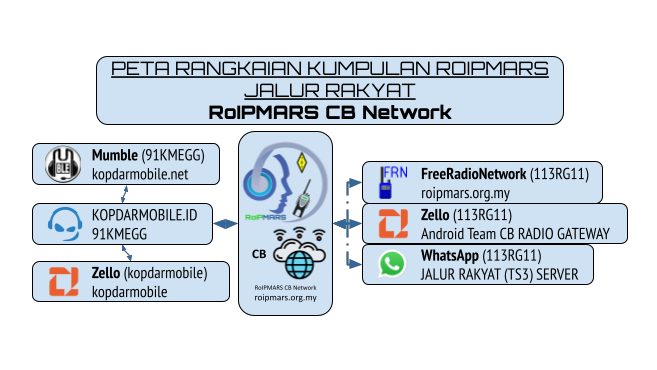
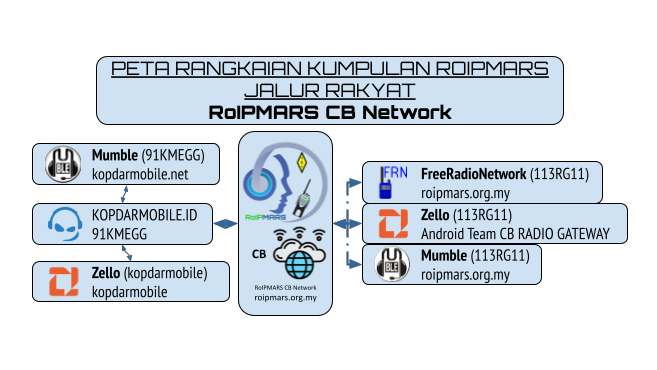
update network map & close net rep jun23

Changed region(s): [[0.5479, 0.6541, 0.9132, 0.773]]

diff --git a/program.php b/program.php
@@ -428,9 +428,9 @@
 						<tr><td>Ahad<br>25/06</td><td>2100MY</td><td>CB Net Hujung Minggu</td><td>113DAJCP</td><td>16</td></tr>
 						<tr><td>Isnin<br>26/06</td><td>2100MY</td><td>RoIPMARS Net Awal Minggu</td><td>9W2LGX</td><td>35</td></tr>
 						<tr class='bg-info-subtle'><td>Wednesday<br>28/06<sup>1</sup></td><td>2100MY</td><td>&#91;SPECIAL&#93; Learning English Net<br>&#40;Aidiladha Eve<sup>1</sup>&#41;</td><td>9W2LGX</td><td>32</td></tr>
-						<tr class='bg-primary-subtle'><td>Jumaat<br>30/06<sup>1</sup></td><td>2100MY</td><td>&#91;KHAS&#93; RoIPMARS Net Santai<br>&#40;Hari Raya Aidiladha<sup>1</sup>&#41;</td><td>9W6AZE</td><td>&shy;</td></tr>
+						<tr class='bg-primary-subtle'><td>Jumaat<br>30/06<sup>1</sup></td><td>2100MY</td><td>&#91;KHAS&#93; RoIPMARS Net Santai<br>&#40;Hari Raya Aidiladha<sup>1</sup>&#41;<br>&#40;Hari Asteroid Antarabangsa&#41;</td><td>9W6AZE</td><td><i class='bi-send-x-fill text-danger fs-3'></i></td></tr>
 						
-						<tr><td>Sabtu<br>01/07</td><td>2100MY</td><td>RoIPMARS Net Malam Minggu</td><td>9W6MOZ</td><td>&shy;</td></tr>
+						<tr><td>Sabtu<br>01/07</td><td>2100MY</td><td>RoIPMARS Net Malam Minggu</td><td>9M2SFL</td><td>47</td></tr>
 						<tr><td>Ahad<br>02/07</td><td>2100MY</td><td>CB Net Hujung Minggu</td><td>113DAJCP</td><td>&shy;</td></tr>
 						<tr><td>Isnin<br>03/07</td><td>2100MY</td><td>RoIPMARS Net Awal Minggu</td><td>V85AFF</td><td>&shy;</td></tr>
 						<tr><td>Wednesday<br>05/07</td><td>2100MY</td><td>Learning English Net</td><td>9W6RHN</td><td>&shy;</td></tr>
